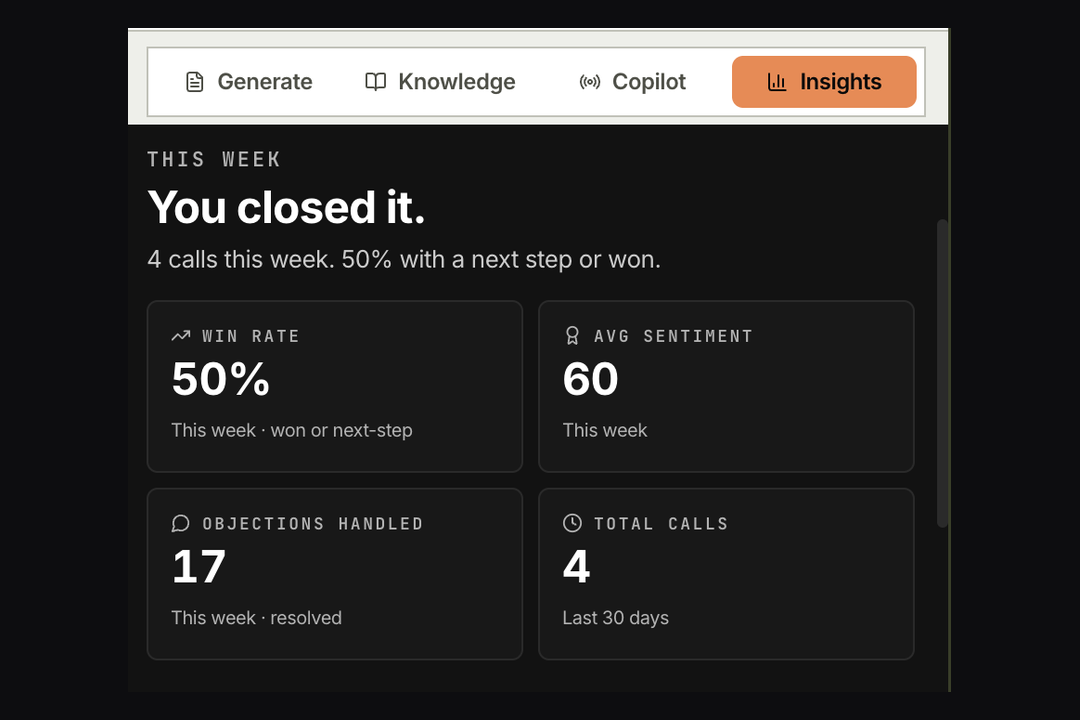
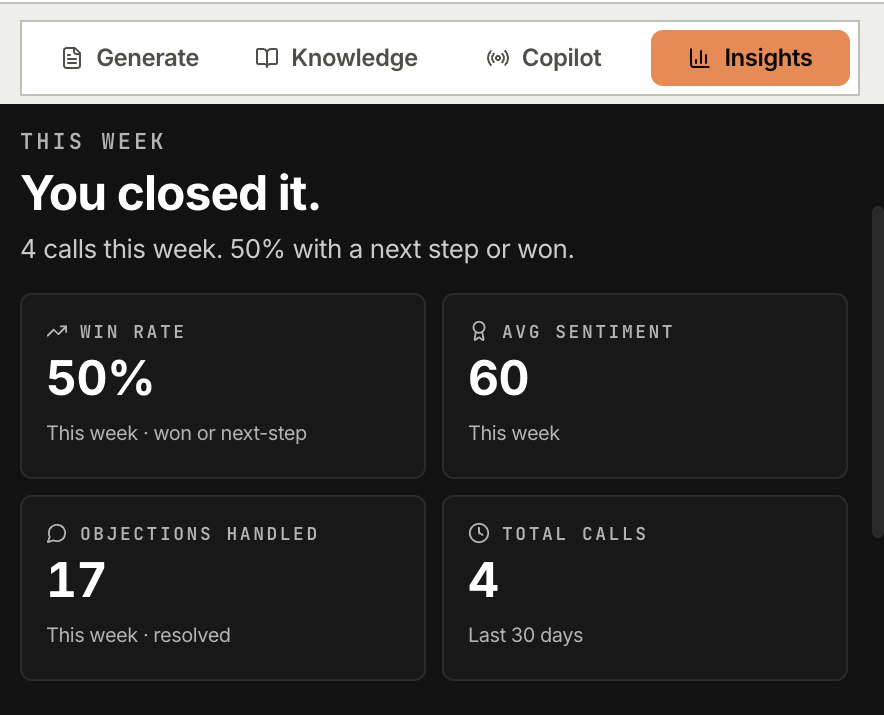
fix(landing-v2): give the screenshots a real boundary and cut them properly
Boundary first. The letterbox canvas is gone: padding each shot onto the
stage's own colour meant the picture had no visible edge at all, it simply
merged into the stage. Each screenshot is now cropped tight and carries a
1px border at 24% white, a radius and a shadow, so it reads as a framed
object. The stage keeps a fixed 560px height and images are capped at 400px
tall, so the differing ratios still cannot shift the page between tabs.

Then the cuts, which took several passes to get right. Every panel had a
specific defect and each needed its own fix rather than one blanket rule:

  01 Load your material   opened mid-way through a disabled "Add to KB"
                          button, clipped "Lint wiki" on the right, and lost
                          the card's "Indexed - 3 chunks" line at the bottom.
                          Now opens on the divider below the button, stops
                          after the card, and the scrollbar track is excluded.
  02 Draft the pitch      already complete: all five output formats.
  03 Take the calls       the OUTCOME filter was sliced down the middle. Now
                          starts below the filter row entirely, so no control
                          is half-cut, and stops at x=795 because the source
                          capture itself truncated the Outcome column
                          mid-word, which reads as a bug rather than a crop.
  04 Read the week        trailing scrollbar track removed.
[…]

diff --git a/landing-v2/styles.css b/landing-v2/styles.css
@@ -697,7 +697,7 @@ button { font: inherit; cursor: pointer; }
 /* Fixed stage height: switching tabs must never move the page, and no
    screenshot may dictate the section's size. */
 .see__stage {
-  min-height: 600px; background: #0D0D10;
+  height: 560px; background: #0D0D10;
   border: 1px solid rgba(255,255,255,0.08); border-radius: 14px;
   padding: 24px; display: flex; align-items: center; justify-content: center;
 }
@@ -705,10 +705,17 @@ button { font: inherit; cursor: pointer; }
   align-items: center; justify-content: center; gap: 16px; }
 .see__panel[hidden] { display: none; }
 .see__panel img {
-  /* Every panel is the same 1080x720 canvas, so one rule sizes them all and the
-     stage never changes shape between tabs. */
-  width: 100%; max-width: 820px; height: auto; display: block;
-  border: 1px solid rgba(255,255,255,0.10); border-radius: 10px;
+  /* A real, visible boundary. The letterbox canvas is gone, so this border is
+     the thing that makes each screenshot read as a framed object rather than
+     bleeding into the stage. Height is capped so the tall pitch shot cannot
+     dominate, and object-fit is unnecessary because each file is cropped tight. */
+  width: auto; height: auto;
+  max-width: min(100%, 760px); max-height: 400px;
+  border: 1px solid rgba(255,255,255,0.24);
+  border-radius: 10px;
+  background: #0B0C10;
+  box-shadow: 0 22px 55px rgba(0,0,0,0.55), 0 0 0 1px rgba(0,0,0,0.5);
+  display: block;
 }
 .see__panel figcaption { text-align: center; font-size: 14px; line-height: 1.5;
   color: rgba(255,255,255,0.55); max-width: 560px; }
